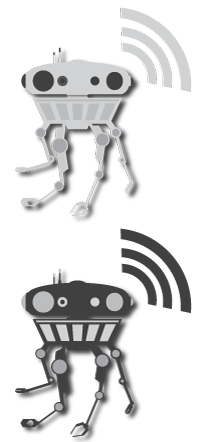
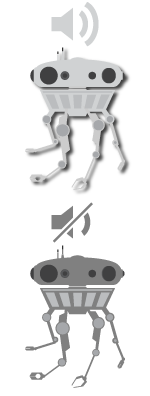
updated droid volume and tool tip, game play play is broken right now

diff --git a/js/game_play.js b/js/game_play.js
@@ -1,0 +1,222 @@
+/**
+ * Created by Weizguy on 10/18/2016.
+ * Prototype to show proof of enemy movement
+ * also added bullet sounds and explosion sounds
+ */
+
+// declaration of game engine
+  // this is where you can change the board size
+var game = new Phaser.Game(600, 900, Phaser.AUTO, 'C10_game', { preload: preload, create: create, update: update });
+
+// declare all globals
+var background = null;
+var foreground = null;
+var cursors = null;
+var speed = 300;
+var xwing;
+var tieFighters;
+var blaster;
+var bullets;
+var bulletTime = 0;
+var bullet;
+var explosions;
+var explode;
+
+function preload() {
+  
+  // add the images/audio to the game
+  game.load.image('background', 'back.png');
+  game.load.image('foreground', 'deathstar.png');
+  game.load.image('xwing', 'xwing.png');
+  game.load.image('tieFighter', 'tie.png');
+  game.load.image('bullet', 'bullet0.png');
+  game.load.spritesheet('kaboom', 'explode.png', 128, 128);
+  game.load.audio('blaster', 'blaster.mp3');
+  game.load.audio('explode', 'explosion.mp3');
+  
+}
+
+
+function create() {
+  
+  background = game.add.tileSprite(0, 0, game.width, game.height, 'background');
+  // this is where you set the speed of the scroll (and the direction)
+  background.autoScroll(0, 60);
+  
+  // the image is set super wide to not show up over and over again
+  foreground = game.add.tileSprite(0, 0, 1600, 250, 'foreground');
+  // here it is set to scroll left
+  foreground.autoScroll(-20, 0);
+  
+  // create the tieFighter group
+  tieFighters = game.add.group();
+  tieFighters.enableBody = true;
+  tieFighters.physicsBodyType = Phaser.Physics.ARCADE;
+  tieFighters.createMultiple(50, 'tieFighter');
+  tieFighters.setAll('anchor.x', 0.5);
+  tieFighters.setAll('anchor.y', 0.5);
+  tieFighters.setAll('scale.x', 0.5);
+  tieFighters.setAll('scale.y', 0.5);
+  tieFighters.setAll('angle', 180);
+  tieFighters.setAll('outOfBoundsKill', false);
+  tieFighters.setAll('checkWorldBounds', true);
+  
+  launchTieFighter();
+  
+  xwing = game.add.group();
+  xwing.enableBody = true;
+  xwing.physicsBodyType = Phaser.Physics.ARCADE;
+  
+  bullets = game.add.group();
+  bullets.enableBody = true;
+  bullets.physicsBodyType = Phaser.Physics.ARCADE;
+  
+  // Add sounds
+  game.explode = game.add.audio('explode');
+  game.blaster = game.add.audio('blaster');
+  
+  
+  for (var i = 0; i < 20; i++)
+  {
+    var b = bullets.create(40, 0, 'bullet');
+    b.name = 'bullet' + i;
+    b.exists = false;
+    b.visible = false;
+    b.checkWorldBounds = true;
+    b.events.onOutOfBounds.add(resetBullet, this);
+  }
+  
+  // create the xwing
+  xwing = game.add.sprite(250, 750, 'xwing');
+  game.physics.enable(xwing, Phaser.Physics.ARCADE);
+  xwing.body.collideWorldBounds = true;
+  
+  //  An explosion pool
+  explosions = game.add.group();
+  explosions.createMultiple(30, 'kaboom');
+  explosions.forEach(setupExplosions, this);
+  
+  cursors = game.input.keyboard.createCursorKeys();
+  game.input.keyboard.addKeyCapture([ Phaser.Keyboard.SPACEBAR ]);
+  
+}
+
+// add explosions
+function setupExplosions (explode) {
+  
+  explode.animations.add('kaboom');
+}
+
+
+function update() {
+  
+  // add the collision handlers
+  game.physics.arcade.collide(bullets, tieFighters, collisionHandler, null, this);
+  game.physics.arcade.collide(xwing, tieFighters, enemyKillPlayer, null, this);
+  
+  // tieFighters.forEach(checkPos, this);
+  
+  // make the xwing controllable
+  xwing.body.velocity.x = 0;
+  xwing.body.velocity.y = 0;
+  
+  if (cursors.left.isDown)
+  {
+    xwing.body.velocity.x = -speed;
+  }
+  else if (cursors.right.isDown)
+  {
+    xwing.body.velocity.x = speed;
+  }
+  else if (cursors.up.isDown)
+  {
+    xwing.body.velocity.y = -speed;
+  }
+  else if (cursors.down.isDown)
+  {
+    xwing.body.velocity.y = speed;
+  }
+  
+  if (game.input.keyboard.isDown(Phaser.Keyboard.SPACEBAR))
+  {
+    fireBullet();
+    
+  }
+}
+
+function fireBullet () {
+  
+  if (game.time.now > bulletTime)
+  {
+    bullet = bullets.getFirstExists(false);
+    
+    if (bullet)
+    {
+      bullet.reset(xwing.x +  30, xwing.y - 5);
+      bullet.body.velocity.y = -300;
+      bulletTime = game.time.now + 150;
+      game.blaster.play();
+    }
+  }
+  
+}
+
+//  Called if the bullet goes out of the screen
+function resetBullet (bullet) {
+  
+  bullet.kill();
+  
+}
+
+// called if enemy and player collide
+function enemyKillPlayer (player, enemy) {
+  
+  player.kill();
+  enemy.kill();
+  
+  //  And create an explosion :)
+  var explosion = explosions.getFirstExists(false);
+  explosion.reset(player.body.x, player.body.y);
+  explosion.play('kaboom', 30, false, true);
+  game.explode.play();
+  
+  
+  player.reset(250, 750);
+}
+
+//  Called if the bullet hits one of the enemies
+function collisionHandler (bullet, enemy) {
+  
+  bullet.kill();
+  enemy.kill();
+  
+  //  And create an explosion :)
+  var explosion = explosions.getFirstExists(false);
+  explosion.reset(enemy.body.x, enemy.body.y);
+  explosion.play('kaboom', 30, false, true);
+  game.explode.play();
+}
+
+function launchTieFighter() {
+  var MIN_ENEMY_SPACING = 300;
+  var MAX_ENEMY_SPACING = 3000;
+  var ENEMY_SPEED = 300;
+  
+  var enemy = tieFighters.getFirstExists(false);
+  if (enemy) {
+    enemy.reset(game.rnd.integerInRange(0, game.width), -20);
+    enemy.body.velocity.x = game.rnd.integerInRange(-300, 300);
+    enemy.body.velocity.y = ENEMY_SPEED;
+    enemy.body.drag.x = 100;
+  }
+  enemy.update = function () {
+    enemy.angle = 180 - game.math.radToDeg(Math.atan2(enemy.body.velocity.x, enemy.body.velocity.y));
+  }
+  
+  
+  //  Send another enemy soon
+  //game.time.events.add(game.rnd.integerInRange(MIN_ENEMY_SPACING, MAX_ENEMY_SPACING), launchTieFighter);
+  game.time.events.add(1000, launchTieFighter);
+  
+  
+}

diff --git a/game_play.html b/game_play.html
@@ -1,0 +1,36 @@
+<!DOCTYPE html>
+<html lang="en">
+<head>
+  <meta charset="UTF-8">
+  <meta name="viewport" content="width=device-width, initial-scale=1" />
+  <title>Rogue Fighter | Game Play</title>
+  <link rel="stylesheet" type="text/css" href="css/game_screen.css">
+  <link rel="stylesheet" type="text/css" href="css/screen_text.css">
+  <script src="//cdn.jsdelivr.net/phaser/2.6.2/phaser.js"></script>
+  <script src="https://code.jquery.com/jquery-2.2.4.js"></script>
+  <script src="js/test.js"></script>
+  <script src="js/game_play.js"></script>
+</head>
+<body>
+<div class="wrapper">
+  <p>Scroll</p>
+  <div id="titles">
+    <div id="titlecontent">
+      <p>
+        Lorem ipsum dolor sit amet, consectetur adipiscing elit. Vivamus non enim bibendum, venenatis erat a, semper dui. Quisque at lacus velit. Integer id mi sodales, accumsan magna nec, tempor arcu. Maecenas vel bibendum ligula. Donec ornare, est quis tincidunt aliquam, ipsum nibh accumsan sem, at euismod erat nisi et purus. Donec non leo quam. Donec eget venenatis risus. Vivamus tincidunt turpis in enim scelerisque ultricies. Quisque non enim vel ex rhoncus viverra. Integer eget felis non est tincidunt ultrices.
+
+        Proin quis varius purus. Suspendisse potenti. Aliquam erat volutpat. Sed porta sapien non diam tristique, vitae pretium odio vulputate. Praesent volutpat elit sed lorem eleifend, tristique posuere dui imperdiet. Praesent pharetra nisi in augue blandit, vel maximus lorem hendrerit. Praesent dolor nulla, consequat at tortor a, cursus porta sem. Nunc quis tincidunt risus, porttitor interdum nisi. Suspendisse potenti. Phasellus iaculis ipsum odio, nec porta quam mattis at. Phasellus dolor nunc, congue vitae nisi at, porttitor molestie mauris. Etiam tempor odio et congue condimentum. Cras vel consectetur quam.
+
+
+      </p>
+    </div>
+  </div>
+</div>
+<div id="gameScreen">
+  <div id="game"></div>
+  <div id="container">
+      <div id="gameArea"></div>
+  </div>
+</div>
+</body>
+</html>

diff --git a/index.html b/index.html
@@ -26,14 +26,16 @@
           <li class="menuItem"><a href="controls.html"><i class="fa fa-cogs" aria-hidden="true"></i><p>Controls</p></a></li>
           <li class="menuItem"><a href="about.html"><i class="fa fa-users" aria-hidden="true"></i><p>About</p></a></li>
           <li class="menuItem"><a href="#"><i class="fa fa-newspaper-o" aria-hidden="true"></i><p>Blog</p></a></li>
-          <li class="signIn"><a href="#"> <i class="fa fa-sign-in" aria-hidden="true"></i> Sign In</a></li>
+          <li class="signIn">
+            <span class="toolTip">Sign in with your Google Account</span>
+            <a href="#"> <i class="fa fa-sign-in" aria-hidden="true"></i> Sign In</a></li>
         </ul>
       </div>
     </header>
     <div class="main_content">
-      <!--<audio loop class="audioDemo" preload="none">
-       <source src="sound/intro-star-wars.mp3" type="audio/mpeg"> Your browser does not support the audio element
-      </audio>-->
+      <audio loop class="audioDemo" preload="none">
+        <source src="sound/intro-star-wars.mp3" type="audio/mpeg"> Your browser does not support the audio element
+      </audio>
       <div>
         <a class="play standard_padding" href="#">- PLAY -</a>
       </div>

diff --git a/css/style.css b/css/style.css
@@ -109,6 +109,39 @@ header{
     padding: 0;
 }
 
+.signIn{
+    position: relative;
+}
+
+.signIn .toolTip{
+    font-size: 1em;
+    width: 80%;
+    padding: 3%;
+    background-color: #0059ee;
+    visibility: hidden;
+    color: #ffffff;
+    position: absolute;
+    z-index: 1;
+    top: -2.5em;
+    border-radius: 2px;
+}
+
+.signIn:hover .toolTip{
+    visibility: visible;
+}
+
+.toolTip:before{
+    display:block;
+    position:absolute;
+    content:'';
+    width:0;
+    height:0;
+    border-left: 15px solid transparent;
+    border-right:15px solid transparent;
+    border-top: 15px solid #0059ee;
+    bottom: -13px;
+}
+
 .main_content{
     width: 100%;
     min-height: 67vh;
@@ -148,12 +181,13 @@ header{
 
 .volume{
     background: url("../imgs/volume-droid.png") 0 0;
-    width: 200px;
-    height: 221px;
+    width: 150px;
+    height: 198px;
 }
 
-.volume:hover{
-    background: url("../imgs/volume-droid.png") 0 221px;
-    width: 200px;
-    height: 221px;
+.volumeOff{
+    background: url("../imgs/volume-droid.png") 0 198px;
+    width: 150px;
+    height: 198px;
 }
+

diff --git a/css/game_screen.css b/css/game_screen.css
@@ -1,0 +1,23 @@
+body {
+    margin: 0;
+}
+
+.wrapper{
+    width: 100%;
+    height: 100vh;
+    background: url("../imgs/stars.jpg");
+    background-repeat: no-repeat;
+    background-size: cover;
+}
+
+#gameScreen{
+    width: 100%;
+    height: 100vh;
+    background: url("../imgs/stars.jpg");
+    background-repeat: no-repeat;
+    background-size: cover;
+}
+
+p{
+    color:white;
+}

diff --git a/js/test.js b/js/test.js
@@ -1,0 +1,12 @@
+$(document).ready(clickhander);
+
+function clickhander(){
+  $('p').click(cleanScroll);
+  setTimeout(cleanScroll, 30000);
+}
+
+function cleanScroll(){
+  $('html, body').animate({
+    scrollTop: $("#gameArea").offset().top
+  }, 3000);
+}

diff --git a/js/visual.js b/js/visual.js
@@ -18,6 +18,7 @@ function playMusic(){
 
 function volumeOff(){
   $(".audioDemo").prop("muted",!$(".audioDemo").prop("muted"));
+  $('.volume').toggleClass('volumeOff');
 }
 
 function navScroll() {

diff --git a/css/screen_text.css b/css/screen_text.css
@@ -1,6 +1,10 @@
 #main_content{
     padding-top: 30%;
 }
+html, body{
+    overflow: hidden;
+}
+
 #titlecontent p{
     font-family: 'Archivo Black', sans-serif;
     color: #f8bb00;
